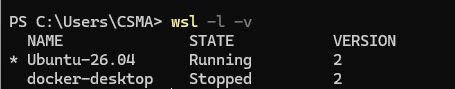
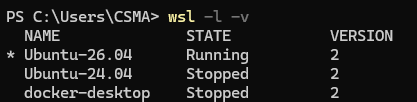
docs(getting-started): 重构 WSL2 常用管理命令一节(中英同步) (#278)
* fix(images):修改图片内容

* docs(getting-started): 重构 WSL2 常用管理命令一节(中英同步)

* fix:优化格式排版

* fix:优化英文排版

diff --git a/documents/en/getting-started/07-wsl2-environment.md b/documents/en/getting-started/07-wsl2-environment.md
@@ -12,12 +12,12 @@ tags:
   - 基础
   - beginner
   - 工具链
-reading_time_minutes: 12
+reading_time_minutes: 10
 contributors_footer: inline
 translation:
   source: documents/getting-started/07-wsl2-environment.md
-  source_hash: 996970a5b1ea0eada4171193eb071d72facbe3861cd9c34aafc6d1a04da3aeff
-  translated_at: '2026-10-04T11:00:00+00:00'
+  source_hash: 27a0edb9cd16e7be3bad5522e17f84fd6dfc984d85ec669d871adaaa0f635024
+  translated_at: '2026-10-04T11:31:47+00:00'
   engine: anthropic
   token_count: 7000
 ---
@@ -117,50 +117,82 @@ Over. Enjoy.
 
 ## 3.3 Checking and Common Management Commands
 
-WSL will keep you company every day from now on, so knowing a few WSL commands pays off. Installation and the plain off-switch are above; here are some other common ones.
+WSL will keep us company every day from now on, so knowing a few WSL commands pays off. Installation and the plain off-switch are covered above; here are some other common commands. Run all of them in `PowerShell` or `Windows Terminal`.
 
-List installed distributions and their versions (in `PowerShell` or `Windows Terminal`):
+### 3.3.1 Check Installed Distributions
+
+Start by listing the installed Linux distributions and checking their running state and WSL version:
 
 ```powershell
 wsl -l -v
 ```
 
-To make a distribution the default (Ubuntu-26.04 in this example):
+![Output of wsl -l -v, showing the current default distribution](images/wsl_set.png)
+
+The `NAME`, `STATE`, and `VERSION` columns show the distribution name, running state, and WSL version. The `*` before a name marks the **default distribution**, which is the one entered by a plain `wsl` command.
+
+### 3.3.2 Set the Default Distribution
+
+If several distributions are installed, make the one you use most often the default. For example, set `Ubuntu-26.04` as the default:
 
 ```powershell
 wsl --set-default Ubuntu-26.04
 ```
 
-To switch an existing distribution to WSL2 (if it isn't already):
+After this, running `wsl` again enters `Ubuntu-26.04`.
 
-```powershell
-wsl --set-version Ubuntu-26.04 2
-```
+![Output of wsl -l -v after setting Ubuntu-26.04 as the default distribution](images/wsl_l_v.png)
 
-> When you install WSL these days, the default is WSL2. Only if your OS is truly ancient — an early Windows 10, say — do you need to watch out here.
+> This changes which distribution the `wsl` command enters by default; it does not change the WSL version of any other distribution.
 
-To double-check the WSL component versions:
+### 3.3.3 Check the WSL Component Version
+
+To view the versions of WSL itself, its kernel, and related components, run:
 
 ```powershell
 wsl --version
 ```
 
-You'll see something like this:
+![Output of wsl --version: WSL component and kernel version numbers](images/wsl_version.png)
 
-![Output of wsl --version: component and kernel version numbers](images/wsl_version.png)
+`wsl --version` reports WSL component information; it cannot by itself tell you whether a particular distribution uses WSL 1 or WSL 2. Go back to `wsl -l -v` and check whether the target distribution's `VERSION` column is `2`.
 
-Note that `wsl --version` reports the WSL components and kernel; it can't tell you whether a given distribution runs WSL 1 or WSL 2. Keep going:
-
-   ```powershell
-   wsl -l -v
-   ```
+```powershell
+wsl -l -v
+```
 
 ![Output of wsl -l -v; the VERSION column reads 2](images/wsl_l_v.png)
 
-Check the `VERSION` column for your target distribution; only a `2` means it's on WSL2.
+### 3.3.4 Switch a Distribution to WSL2
+
+If `wsl -l -v` shows that a distribution is still using WSL 1, switch it to WSL 2 manually:
 
 ```powershell
-wsl --terminate XXX # XXX is the name of our WSL distribution
+wsl --set-version Ubuntu-26.04 2
+```
+
+Replace `Ubuntu-26.04` with the name of the target distribution. A distribution freshly installed with `wsl --install` uses WSL 2 by default; of course, if your operating system is truly ancient — an early Windows 10 release, say — you'll want to watch out here.
+
+### 3.3.5 Temporarily Enter a Different Distribution
+
+If you do not want to change the default distribution, add `-d` (`--distribution`) to `wsl` to enter a specific distribution temporarily:
+
+```powershell
+wsl -d Ubuntu-26.04
+```
+
+This enters `Ubuntu-26.04` without changing the default setting.
+
+```powershell
+wsl -d Ubuntu-24.04
+```
+
+This enters `Ubuntu-24.04`, again without affecting the default distribution.
+
+### 3.3.6 Stop a Specific Distribution
+
+```powershell
+wsl --terminate <distribution-name>
 ```
 
 ![wsl --terminate stopping one distribution](images/wsl_l.png)
@@ -171,7 +203,7 @@ Say I need to shut down the running RK3506 — then
 wsl --terminate RK3506
 ```
 
-safely stops the RK3506 distribution without disturbing the others.
+This command safely stops the RK3506 distribution without disturbing the others. To shut down every running WSL instance at once, use the `wsl --shutdown` command introduced earlier.
 
 # 4. Isolating the Windows PATH
 

diff --git a/documents/getting-started/07-wsl2-environment.md b/documents/getting-started/07-wsl2-environment.md
@@ -121,39 +121,45 @@ Over，您可以开始美美使用了。
 
 ## 3.3 检查与常用管理命令
 
-之后WSL将会陪伴您度过每一天，所以，稍微会一些WSL的指令是不赖的，上面已经给出了WSL的安装，和直接关掉的指令。下面给出一些常见的其他指令
+之后WSL将会陪伴您度过每一天，所以，稍微会一些WSL的指令是不赖的，上面已经给出了WSL的安装，和直接关掉的指令，下面给出一些常见的其他指令，下面的命令都在 `PowerShell` 或 `Windows Terminal` 中执行。
 
-列出已安装的 Linux 发行版并查看版本（在 `PowerShell` 或 `Windows Terminal`）：
+### 3.3.1 查看已安装的发行版
+
+先列出已经安装的 Linux 发行版，同时查看它们的运行状态和 WSL 版本：
 
 ```powershell
 wsl -l -v
 ```
 
-如果需要把某个发行版设置为默认（例如 Ubuntu-26.04）：
+![wsl -l -v 的输出，查看此时的默认发行版](images/wsl_set.png)
+
+输出中的 `NAME`、`STATE` 和 `VERSION` 分别表示发行版名称、运行状态和 WSL 版本。名称前的 `*` 表示当前的**默认发行版**，所以直接执行 `wsl` 时会进入这一发行版。
+
+### 3.3.2 设置默认发行版
+
+如果电脑上安装了多个发行版，可以把常用的那个设为默认。例如，将 `Ubuntu-26.04` 设为默认发行版：
 
 ```powershell
 wsl --set-default Ubuntu-26.04
 ```
 
-将现有发行版切换到 WSL2（如果不是）：
+设置完成后再次执行 `wsl`，就会进入 `Ubuntu-26.04`。
 
-```powershell
-wsl --set-version Ubuntu-26.04 2
-```
+![wsl -l -v 的输出，此时的默认进入的发行版为 Ubuntu-26.04](images/wsl_l_v.png)
 
-> 现在进行 WSL 的安装时，默认发行版本为 WSL2。当然，如果您的操作系统非常老旧，比如说是Windows 10的早期的一个版本，那需要注意一下。
+> 这里修改的是 `wsl` 默认进入的发行版，不会改变其他发行版的 WSL 版本。
 
-进一步确认 WSL 组件版本：
+### 3.3.3 确认 WSL 组件版本
+
+如果要查看 WSL 本身、内核和相关组件的版本，执行：
 
 ```powershell
 wsl --version
 ```
 
-出现类似于下图的内容
-
 ![wsl --version 的输出，WSL 各组件与内核版本号](images/wsl_version.png)
 
-`wsl --version` 用于查看 WSL 组件和内核版本，不能单独判断某个发行版使用的是 WSL 1 还是 WSL 2。请继续执行：
+`wsl --version` 查看的是 WSL 组件信息，不能单独判断某个发行版使用的是 WSL 1 还是 WSL 2。发行版的版本仍然要回到 `wsl -l -v`，确认目标发行版的 `VERSION` 列是否为 `2`。
 
 ```powershell
 wsl -l -v
@@ -161,10 +167,36 @@ wsl -l -v
 
 ![wsl -l -v 的输出，看 VERSION 列是 2](images/wsl_l_v.png)
 
-在输出的 `VERSION` 列查看目标发行版；显示 `2` 才表示该发行版使用 WSL2。
+### 3.3.4 将发行版切换到 WSL2
+
+如果 `wsl -l -v` 显示某个发行版仍在使用 WSL 1，可以手动切换到 WSL 2：
 
 ```powershell
-wsl --terminate XXX # XXX是咱们的WSL发行版的名称
+wsl --set-version Ubuntu-26.04 2
+```
+
+把命令中的 `Ubuntu-26.04` 换成目标发行版名称即可。使用 `wsl --install` 新安装的发行版默认使用 WSL 2；当然，如果您的操作系统非常老旧，比如说是Windows 10的早期的一个版本，那需要注意一下。
+
+### 3.3.5 临时进入不同的发行版
+
+不想修改默认发行版时，可以给 `wsl` 加上 `-d`（`--distribution`），只临时进入指定发行版：
+
+```powershell
+wsl -d Ubuntu-26.04
+```
+
+进入 `Ubuntu-26.04`，但不会改变默认设置。
+
+```powershell
+wsl -d Ubuntu-24.04
+```
+
+进入 `Ubuntu-24.04`，同样不会影响默认发行版。
+
+### 3.3.6 停止指定发行版
+
+```powershell
+wsl --terminate <发行版名称>
 ```
 
 ![wsl --terminate 停掉指定发行版](images/wsl_l.png)
@@ -175,7 +207,7 @@ wsl --terminate XXX # XXX是咱们的WSL发行版的名称
 wsl --terminate RK3506
 ```
 
-就能在不干扰其他发行版运行的情况下安全停掉RK3506这个发行版。
+这个命令就能在不干扰其他发行版运行的情况下安全停掉RK3506这个发行版。如果要一次关闭所有正在运行的 WSL 实例，可以使用前面介绍过的 `wsl --shutdown`。
 
 # 四、WSL2 隔离 Windows PATH
 
